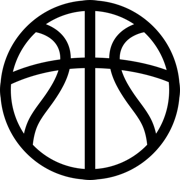
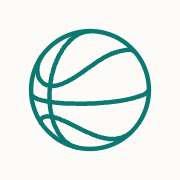
feat: draw a real mark, and retire the stock basketball glyph
The audit scored the old mark 2/10 with a verdict of START OVER: a glyph lifted
from an icon library and set beside the product name. The favicon, touch icon
and manifest icons were still orange rasters on a site that has been teal since
plan 018.

Getting here took thirteen candidates and two corrections from the operator,
both of which changed the approach rather than the drawing.

The first: several marks encoded clip in-points and out-points by cutting gaps
into the seams. "They both look broken, the dashes don't look intentional."
That is structural, not tuning. Removing a segment from a line reads as damage,
and the additive alternatives were no better, one reading as a crosshair and one
as beads on a wire. The conclusion three separate attempts reached is that a
64px ball cannot carry a timeline.

The second, and the useful one: "we need to first start with a good
representation of a basketball. accurate lines and perspective." Every mark to
that point had drawn the seams by eye, and one had measured another icon set as
its reference, which only inherits someone else's stylisation.

So the geometry was established from evidence. A basketball is two great circles
meeting at 90 degrees at the poles plus two closed cheek loops: six crossings,
twelve edges, eight panels. The cheek seam is not a wave. It holds constant
longitude for most of its length and turns hard about 15 degrees from the pole,
measured at 15.5, 14.9, 15.2 and 16.9 degrees across four arcs in two
[…]

diff --git a/docs/DESIGN.md b/docs/DESIGN.md
@@ -107,6 +107,61 @@ Two rules for anyone changing them, both from the audit:
 
 Plan `023` covers both.
 
+## The mark
+
+A basketball, drawn from measurements rather than from memory.
+
+The audit scored the old mark 2/10 with a verdict of START OVER: a stock glyph
+from an icon library set beside the product name. Four abstract replacements
+were drawn and rejected, then three "drawn ball" attempts, then three more that
+tried to encode clip in-points into the seams. The operator's verdict on the
+last of those settled it: "they both look broken, the dashes don't look
+intentional." Removing a segment from a line reads as damage, and no amount of
+tuning gap widths changes that. A 64px ball cannot carry a timeline.
+
+Then the more useful correction: "we need to first start with a good
+representation of a basketball. accurate lines and perspective." Every mark up
+to that point had drawn the seams by eye.
+
+**What a basketball's seams actually are.** Two great circles meeting at 90
+degrees at the poles, plus two closed cheek loops. Six crossings, twelve edges,
+eight panels, which is the panel count every source agrees on. The cheek seam is
+**not a wave**: it runs at constant longitude for most of its length and turns
+hard near the pole, reaching to about 15 degrees of colatitude. Four independent
+readings across two photographs put that turn at 15.5, 14.9, 15.2 and 16.9
+degrees.
+
+That flat-sided lobe is the whole difference between a basketball and a
+volleyball. Modelled as a series it needs one correction term,
+`57.82 + 15.46 cos2psi + 2.63 cos4psi`; a pure cosine puts the 45-degree point
+at 60.46 where the photographs say 55.19. An independent fit reached the same
+shape by a different route, a tanh-flattened sinusoid, and concluded that no
+cosine of any amplitude produces it.
+
+Two more measured facts worth keeping:
+
+- **Face-on, a real ball shows three seams, not four.** The fourth great circle
+  lies in the horizon plane and projects onto the silhouette. The familiar
+  vertical-plus-horizontal-plus-two-arcs icon is a stylisation of a pole-on view
+  at roughly double the real seam amplitude. Do not draw the ball face-on.
+- **Seams meet the silhouette tangentially**, measured at 73 degrees rising
+  toward 90. The exception is a great circle seen edge-on, which meets
+  near-perpendicular at 21 to 23 degrees from radial.
+
+**What shipped.** A three-quarter view, stroke 2.2 on a 64 viewBox with a radius
+of 29, which is 3.79% of the diameter against 2.2% in life. Single flat colour
+through `currentColor`, so the mark takes the colour of whatever it sits in: the
+site's ink in the navbar, near-white in the app's header, the accent on an icon.
+
+**The 16px cut is a different drawing, and that is deliberate.** Four seam
+strands do not fit in sixteen pixels; three separate passes reached that
+conclusion independently. The favicon drops the upper cheek and thickens the
+rest to 2.6. Thinning the stroke instead produces grey mush. `mark.svg` and
+`mark-small.svg` are both in `src/assets/brand/`.
+
+`favicon.svg` carries a `prefers-color-scheme` swap to the bright face, which
+the PNG fallbacks cannot do.
+
 ## Type
 
 **Space Grotesk** for display. **IBM Plex Sans** for interface and body.
